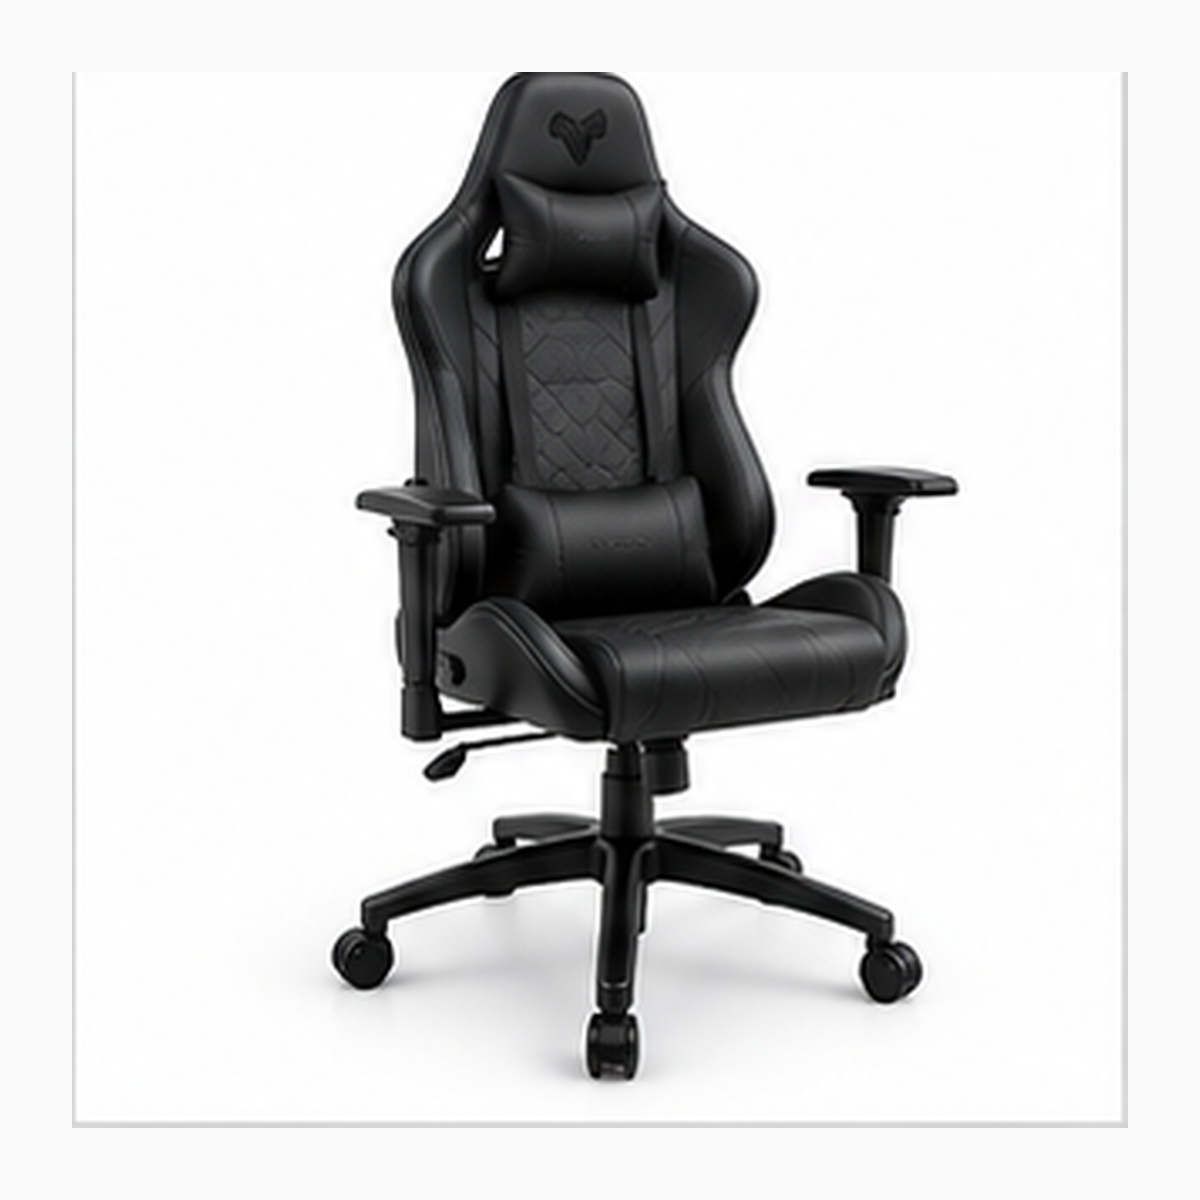
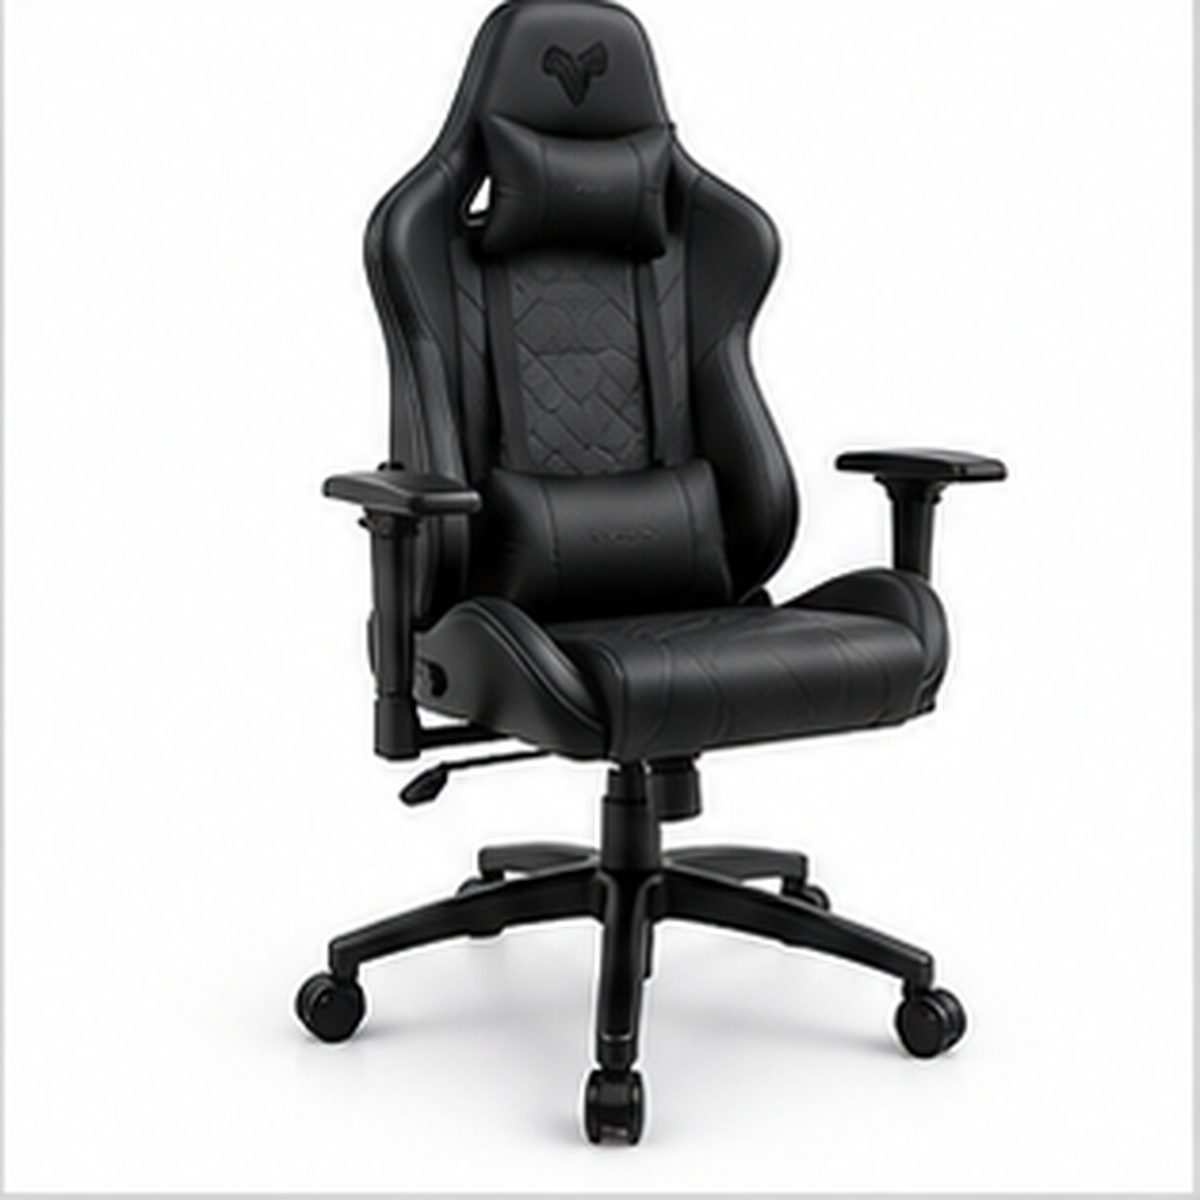
Add files via upload

Changed region(s): [[0.0, 0.0, 1.0, 1.0], [0.5858, 0.0617, 0.9558, 0.9558], [0.0, 0.0925, 0.0308, 0.8325]]

diff --git a/index.html b/index.html
@@ -1,8 +1,8 @@
 <!doctype html><html lang="en"><head><meta charset="utf-8"><meta name="viewport" content="width=device-width,initial-scale=1"><title>Home | NEXORA GAMES</title><meta name="description" content="NEXORA GAMES — consoles, games, controllers, gaming gear and accessories."><link rel="stylesheet" href="style.css"></head><body><div class="ticker"><span>Free Shipping on Orders Over $50</span><span>Play More. Live Better.</span><span><a href="contact.html">Support</a> · +1 (800) 555-0196 · support@nexoragames.com</span></div><header class="header"><div class="head"><a class="logo" href="index.html"><img src="assets/images/nexora-games-logo.png" alt="NEXORA GAMES"></a><nav><a href="index.html">Home</a><a href="shop.html">Consoles</a><a href="shop.html?cat=Video Games">Games</a><a href="shop.html?cat=Controllers">Controllers</a><a href="shop.html?cat=Accessories">Accessories</a><a href="shop.html?cat=PC Gaming">PC Gaming</a><a href="shop.html?cat=Deals">Deals</a><a href="collections.html">Collections</a><a href="contact.html">Support</a></nav><div class="tools"><div class="search"><input id="search" placeholder="Search games, consoles..."><button>⌕</button></div><a href="wishlist.html">♡</a><a href="cart.html">🛒 <small id="cartCount">0</small></a></div></div></header><main>
 <section class="hero"><div class="hero-copy"><div class="eyebrow">PLAY MORE. LIVE BETTER.</div><h1>Next Level<br><em>Gaming Awaits.</em></h1><p>Consoles, video games, controllers, accessories, and everything you need for the way you play.</p><div class="actions"><a class="btn" href="shop.html">Shop Now →</a><a class="outline" href="shop.html?cat=Deals">Explore Deals</a></div><div class="trust"><span>Free Shipping $50+</span><span>Secure Payment</span><span>24/7 Support</span><span>Easy Returns</span></div></div><div class="hero-image"><img src="assets/images/hero.jpg" alt="NEXORA GAMES gaming setup"></div></section>
-<section class="category-section"><div class="section-head"><div><div class="eyebrow">SHOP BY CATEGORY</div><h2>Everything gamers need.</h2><p>From consoles and games to racing, PC, streaming, and accessories.</p></div><a class="text-link" href="shop.html">View All →</a></div><div class="category-grid"><a class="cat" href="shop.html?cat=Consoles"><img src="assets/images/photo-12.jpg" alt="Consoles"><strong>Consoles</strong><span>Next-gen systems</span></a><a class="cat" href="shop.html?cat=Video Games"><img src="assets/images/photo-13.jpg" alt="Video Games"><strong>Video Games</strong><span>New worlds</span></a><a class="cat" href="shop.html?cat=Controllers"><img src="assets/images/photo-14.jpg" alt="Controllers"><strong>Controllers</strong><span>Play your way</span></a><a class="cat" href="shop.html?cat=Headsets"><img src="assets/images/photo-15.jpg" alt="Headsets"><strong>Headsets</strong><span>Immersive audio</span></a><a class="cat" href="shop.html?cat=PC Gaming"><img src="assets/images/photo-16.jpg" alt="PC Gaming"><strong>PC Gaming</strong><span>Build your rig</span></a><a class="cat" href="shop.html?cat=Racing"><img src="assets/images/photo-17.jpg" alt="Racing"><strong>Racing</strong><span>Drive harder</span></a><a class="cat" href="shop.html?cat=Streaming"><img src="assets/images/photo-18.jpg" alt="Streaming"><strong>Streaming</strong><span>Create more</span></a><a class="cat" href="shop.html?cat=Accessories"><img src="assets/images/photo-19.jpg" alt="Accessories"><strong>Accessories</strong><span>Level up</span></a></div></section>
-<section class="promo-row"><a href="shop.html?cat=Consoles" class="promo"><img src="assets/images/photo-1.jpg" alt="Consoles"><div><span>CONSOLES</span><h3>Start your next generation.</h3><small>Shop consoles →</small></div></a><a href="shop.html?cat=Video Games" class="promo"><img src="assets/images/photo-1.jpg" alt="Video games"><div><span>GAMES</span><h3>Discover your next world.</h3><small>Shop games →</small></div></a><a href="shop.html?cat=Accessories" class="promo"><img src="assets/images/photo-1.jpg" alt="Accessories"><div><span>ACCESSORIES</span><h3>Level up your setup.</h3><small>Shop accessories →</small></div></a></section>
-<section class="best"><div class="section-head"><div><div class="eyebrow">FEATURED PRODUCTS</div><h2>Popular right now.</h2><p>Gaming essentials selected for the next session.</p></div><a class="text-link" href="products.html">View All Products →</a></div><div class="product-grid"><article class="card"><span class="badge">BEST SELLER</span><button class="wish" onclick="toggleWish(0)">♡</button><a class="photo" href="product.html?id=0"><img src="assets/images/photo-1.jpg" alt="NEXORA PS5 Console" loading="lazy"></a><div class="info"><div class="rating">★★★★★ <span>(61)</span></div><h3>NEXORA PS5 Console</h3><div class="meta">PlayStation · Next-gen gaming</div><div class="row"><strong>$499.99</strong><button onclick="addToCart(0)">Add to Cart</button></div></div></article><article class="card"><span class="badge">NEW</span><button class="wish" onclick="toggleWish(1)">♡</button><a class="photo" href="product.html?id=1"><img src="assets/images/photo-1.jpg" alt="NEXORA Xbox Series X" loading="lazy"></a><div class="info"><div class="rating">★★★★★ <span>(104)</span></div><h3>NEXORA Xbox Series X</h3><div class="meta">Xbox · Power your dreams</div><div class="row"><strong>$499.99</strong><button onclick="addToCart(1)">Add to Cart</button></div></div></article><article class="card"><span class="badge">POPULAR</span><button class="wish" onclick="toggleWish(2)">♡</button><a class="photo" href="product.html?id=2"><img src="assets/images/photo-1.jpg" alt="NEXORA Switch OLED" loading="lazy"></a><div class="info"><div class="rating">★★★★★ <span>(147)</span></div><h3>NEXORA Switch OLED</h3><div class="meta">Nintendo · Play anywhere</div><div class="row"><strong>$349.99</strong><button onclick="addToCart(2)">Add to Cart</button></div></div></article><article class="card"><span class="badge">BEST SELLER</span><button class="wish" onclick="toggleWish(3)">♡</button><a class="photo" href="product.html?id=3"><img src="assets/images/photo-1.jpg" alt="NEXORA Handheld Pro" loading="lazy"></a><div class="info"><div class="rating">★★★★★ <span>(190)</span></div><h3>NEXORA Handheld Pro</h3><div class="meta">Handheld · Portable gaming</div><div class="row"><strong>$299.99</strong><button onclick="addToCart(3)">Add to Cart</button></div></div></article><article class="card"><span class="badge">NEW</span><button class="wish" onclick="toggleWish(4)">♡</button><a class="photo" href="product.html?id=4"><img src="assets/images/photo-1.jpg" alt="Console Starter Bundle" loading="lazy"></a><div class="info"><div class="rating">★★★★★ <span>(233)</span></div><h3>Console Starter Bundle</h3><div class="meta">Multi · Ready to play</div><div class="row"><strong>$549.99</strong><button onclick="addToCart(4)">Add to Cart</button></div></div></article><article class="card"><span class="badge">POPULAR</span><button class="wish" onclick="toggleWish(5)">♡</button><a class="photo" href="product.html?id=5"><img src="assets/images/photo-1.jpg" alt="Elden Ring" loading="lazy"></a><div class="info"><div class="rating">★★★★★ <span>(276)</span></div><h3>Elden Ring</h3><div class="meta">PS5 · Action RPG</div><div class="row"><strong>$59.99</strong><button onclick="addToCart(5)">Add to Cart</button></div></div></article><article class="card"><span class="badge">BEST SELLER</span><button class="wish" onclick="toggleWish(6)">♡</button><a class="photo" href="product.html?id=6"><img src="assets/images/photo-1.jpg" alt="Adventure Quest Deluxe" loading="lazy"></a><div class="info"><div class="rating">★★★★★ <span>(319)</span></div><h3>Adventure Quest Deluxe</h3><div class="meta">Xbox · Open-world adventure</div><div class="row"><strong>$69.99</strong><button onclick="addToCart(6)">Add to Cart</button></div></div></article><article class="card"><span class="badge">NEW</span><button class="wish" onclick="toggleWish(7)">♡</button><a class="photo" href="product.html?id=7"><img src="assets/images/photo-1.jpg" alt="Galaxy Racers" loading="lazy"></a><div class="info"><div class="rating">★★★★★ <span>(362)</span></div><h3>Galaxy Racers</h3><div class="meta">Nintendo · Arcade racing</div><div class="row"><strong>$49.99</strong><button onclick="addToCart(7)">Add to Cart</button></div></div></article></div></section>
-<section class="setups"><div><div class="eyebrow">BUILD YOUR SETUP</div><h2>Choose your<br><em>way to play.</em></h2><p>Console gamer, PC player, creator, or racing fan—build a setup that fits your style.</p><div class="setup-links"><a href="collections.html">Console Setup →</a><a href="collections.html">PC Setup →</a><a href="collections.html">Streaming Setup →</a><a href="collections.html">Racing Setup →</a></div></div><div class="setup-image"><img src="assets/images/photo-1.jpg" alt="Gaming setup gear"></div></section>
+<section class="category-section"><div class="section-head"><div><div class="eyebrow">SHOP BY CATEGORY</div><h2>Everything gamers need.</h2><p>From consoles and games to racing, PC, streaming, and accessories.</p></div><a class="text-link" href="shop.html">View All →</a></div><div class="category-grid"><a class="cat" href="shop.html?cat=Consoles"><img src="assets/images/product-12.jpg" alt="Consoles"><strong>Consoles</strong><span>Next-gen systems</span></a><a class="cat" href="shop.html?cat=Video Games"><img src="assets/images/product-13.jpg" alt="Video Games"><strong>Video Games</strong><span>New worlds</span></a><a class="cat" href="shop.html?cat=Controllers"><img src="assets/images/product-14.jpg" alt="Controllers"><strong>Controllers</strong><span>Play your way</span></a><a class="cat" href="shop.html?cat=Headsets"><img src="assets/images/product-15.jpg" alt="Headsets"><strong>Headsets</strong><span>Immersive audio</span></a><a class="cat" href="shop.html?cat=PC Gaming"><img src="assets/images/product-16.jpg" alt="PC Gaming"><strong>PC Gaming</strong><span>Build your rig</span></a><a class="cat" href="shop.html?cat=Racing"><img src="assets/images/product-1.jpg" alt="Racing"><strong>Racing</strong><span>Drive harder</span></a><a class="cat" href="shop.html?cat=Streaming"><img src="assets/images/product-2.jpg" alt="Streaming"><strong>Streaming</strong><span>Create more</span></a><a class="cat" href="shop.html?cat=Accessories"><img src="assets/images/product-3.jpg" alt="Accessories"><strong>Accessories</strong><span>Level up</span></a></div></section>
+<section class="promo-row"><a href="shop.html?cat=Consoles" class="promo"><img src="assets/images/product-1.jpg" alt="Consoles"><div><span>CONSOLES</span><h3>Start your next generation.</h3><small>Shop consoles →</small></div></a><a href="shop.html?cat=Video Games" class="promo"><img src="assets/images/product-1.jpg" alt="Video games"><div><span>GAMES</span><h3>Discover your next world.</h3><small>Shop games →</small></div></a><a href="shop.html?cat=Accessories" class="promo"><img src="assets/images/product-1.jpg" alt="Accessories"><div><span>ACCESSORIES</span><h3>Level up your setup.</h3><small>Shop accessories →</small></div></a></section>
+<section class="best"><div class="section-head"><div><div class="eyebrow">FEATURED PRODUCTS</div><h2>Popular right now.</h2><p>Gaming essentials selected for the next session.</p></div><a class="text-link" href="products.html">View All Products →</a></div><div class="product-grid"><article class="card"><span class="badge">BEST SELLER</span><button class="wish" onclick="toggleWish(0)">♡</button><a class="photo" href="product.html?id=0"><img src="assets/images/product-1.jpg" alt="NEXORA PS5 Console" loading="lazy"></a><div class="info"><div class="rating">★★★★★ <span>(61)</span></div><h3>NEXORA PS5 Console</h3><div class="meta">PlayStation · Next-gen gaming</div><div class="row"><strong>$499.99</strong><button onclick="addToCart(0)">Add to Cart</button></div></div></article><article class="card"><span class="badge">NEW</span><button class="wish" onclick="toggleWish(1)">♡</button><a class="photo" href="product.html?id=1"><img src="assets/images/product-1.jpg" alt="NEXORA Xbox Series X" loading="lazy"></a><div class="info"><div class="rating">★★★★★ <span>(104)</span></div><h3>NEXORA Xbox Series X</h3><div class="meta">Xbox · Power your dreams</div><div class="row"><strong>$499.99</strong><button onclick="addToCart(1)">Add to Cart</button></div></div></article><article class="card"><span class="badge">POPULAR</span><button class="wish" onclick="toggleWish(2)">♡</button><a class="photo" href="product.html?id=2"><img src="assets/images/product-1.jpg" alt="NEXORA Switch OLED" loading="lazy"></a><div class="info"><div class="rating">★★★★★ <span>(147)</span></div><h3>NEXORA Switch OLED</h3><div class="meta">Nintendo · Play anywhere</div><div class="row"><strong>$349.99</strong><button onclick="addToCart(2)">Add to Cart</button></div></div></article><article class="card"><span class="badge">BEST SELLER</span><button class="wish" onclick="toggleWish(3)">♡</button><a class="photo" href="product.html?id=3"><img src="assets/images/product-1.jpg" alt="NEXORA Handheld Pro" loading="lazy"></a><div class="info"><div class="rating">★★★★★ <span>(190)</span></div><h3>NEXORA Handheld Pro</h3><div class="meta">Handheld · Portable gaming</div><div class="row"><strong>$299.99</strong><button onclick="addToCart(3)">Add to Cart</button></div></div></article><article class="card"><span class="badge">NEW</span><button class="wish" onclick="toggleWish(4)">♡</button><a class="photo" href="product.html?id=4"><img src="assets/images/product-1.jpg" alt="Console Starter Bundle" loading="lazy"></a><div class="info"><div class="rating">★★★★★ <span>(233)</span></div><h3>Console Starter Bundle</h3><div class="meta">Multi · Ready to play</div><div class="row"><strong>$549.99</strong><button onclick="addToCart(4)">Add to Cart</button></div></div></article><article class="card"><span class="badge">POPULAR</span><button class="wish" onclick="toggleWish(5)">♡</button><a class="photo" href="product.html?id=5"><img src="assets/images/product-1.jpg" alt="Elden Ring" loading="lazy"></a><div class="info"><div class="rating">★★★★★ <span>(276)</span></div><h3>Elden Ring</h3><div class="meta">PS5 · Action RPG</div><div class="row"><strong>$59.99</strong><button onclick="addToCart(5)">Add to Cart</button></div></div></article><article class="card"><span class="badge">BEST SELLER</span><button class="wish" onclick="toggleWish(6)">♡</button><a class="photo" href="product.html?id=6"><img src="assets/images/product-1.jpg" alt="Adventure Quest Deluxe" loading="lazy"></a><div class="info"><div class="rating">★★★★★ <span>(319)</span></div><h3>Adventure Quest Deluxe</h3><div class="meta">Xbox · Open-world adventure</div><div class="row"><strong>$69.99</strong><button onclick="addToCart(6)">Add to Cart</button></div></div></article><article class="card"><span class="badge">NEW</span><button class="wish" onclick="toggleWish(7)">♡</button><a class="photo" href="product.html?id=7"><img src="assets/images/product-1.jpg" alt="Galaxy Racers" loading="lazy"></a><div class="info"><div class="rating">★★★★★ <span>(362)</span></div><h3>Galaxy Racers</h3><div class="meta">Nintendo · Arcade racing</div><div class="row"><strong>$49.99</strong><button onclick="addToCart(7)">Add to Cart</button></div></div></article></div></section>
+<section class="setups"><div><div class="eyebrow">BUILD YOUR SETUP</div><h2>Choose your<br><em>way to play.</em></h2><p>Console gamer, PC player, creator, or racing fan—build a setup that fits your style.</p><div class="setup-links"><a href="collections.html">Console Setup →</a><a href="collections.html">PC Setup →</a><a href="collections.html">Streaming Setup →</a><a href="collections.html">Racing Setup →</a></div></div><div class="setup-image"><img src="assets/images/product-1.jpg" alt="Gaming setup gear"></div></section>
 <section class="support"><div><div class="eyebrow">DEDICATED SUPPORT</div><h2>Need help before you buy?</h2><p>Questions about compatibility, accessories, orders, shipping, or returns?</p><strong>support@nexoragames.com · +1 (800) 555-0196 · Mon–Fri, 9 AM–6 PM</strong></div><a class="btn" href="contact.html">Contact Support →</a></section>
 </main><footer class="footer"><div class="foot-grid"><div><img class="footer-logo" src="assets/images/nexora-games-logo.png" alt="NEXORA GAMES"><p>Play More. Live Better.</p><p>Consoles, video games, accessories, PC gear, and complete gaming setups.</p></div><div><h4>SHOP</h4><a href="shop.html">All Products</a><a href="shop.html?cat=Consoles">Consoles</a><a href="shop.html?cat=Video Games">Games</a><a href="shop.html?cat=Controllers">Controllers</a><a href="shop.html?cat=PC Gaming">PC Gaming</a><a href="shop.html?cat=Deals">Deals</a></div><div><h4>CUSTOMER SERVICE</h4><a href="contact.html">Contact Support</a><a href="faq.html">FAQ</a><a href="shipping.html">Shipping</a><a href="returns.html">Returns & Refunds</a><a href="guides.html">Gaming Guides</a></div><div><h4>CONTACT</h4><p>support@nexoragames.com<br>+1 (800) 555-0196<br>United States<br>Mon–Fri, 9 AM–6 PM</p></div><div><h4>NEXORA COMMUNITY</h4><p>New releases, gaming news, setup ideas, and exclusive offers.</p><div class="newsletter"><input placeholder="Your email address"><button>Subscribe</button></div></div></div><div class="bottom">© 2026 NEXORA GAMES. All rights reserved.<span>Privacy Policy · Terms · Sitemap</span></div></footer><script src="app.js"></script></body></html>

diff --git a/style.css b/style.css
@@ -130,3 +130,22 @@
   object-position:center center !important;
   padding:0 !important;
 }
+
+/* V6: one complete product per frame */
+.photo,.product-image{
+  width:100%;
+  aspect-ratio:1/1;
+  display:flex;
+  align-items:center;
+  justify-content:center;
+  overflow:hidden;
+  background:#f4f6f9;
+}
+.photo img,.product-image img,.cat img,.category-card img{
+  width:100%;
+  height:100%;
+  display:block;
+  object-fit:contain !important;
+  object-position:center center !important;
+  padding:0 !important;
+}
